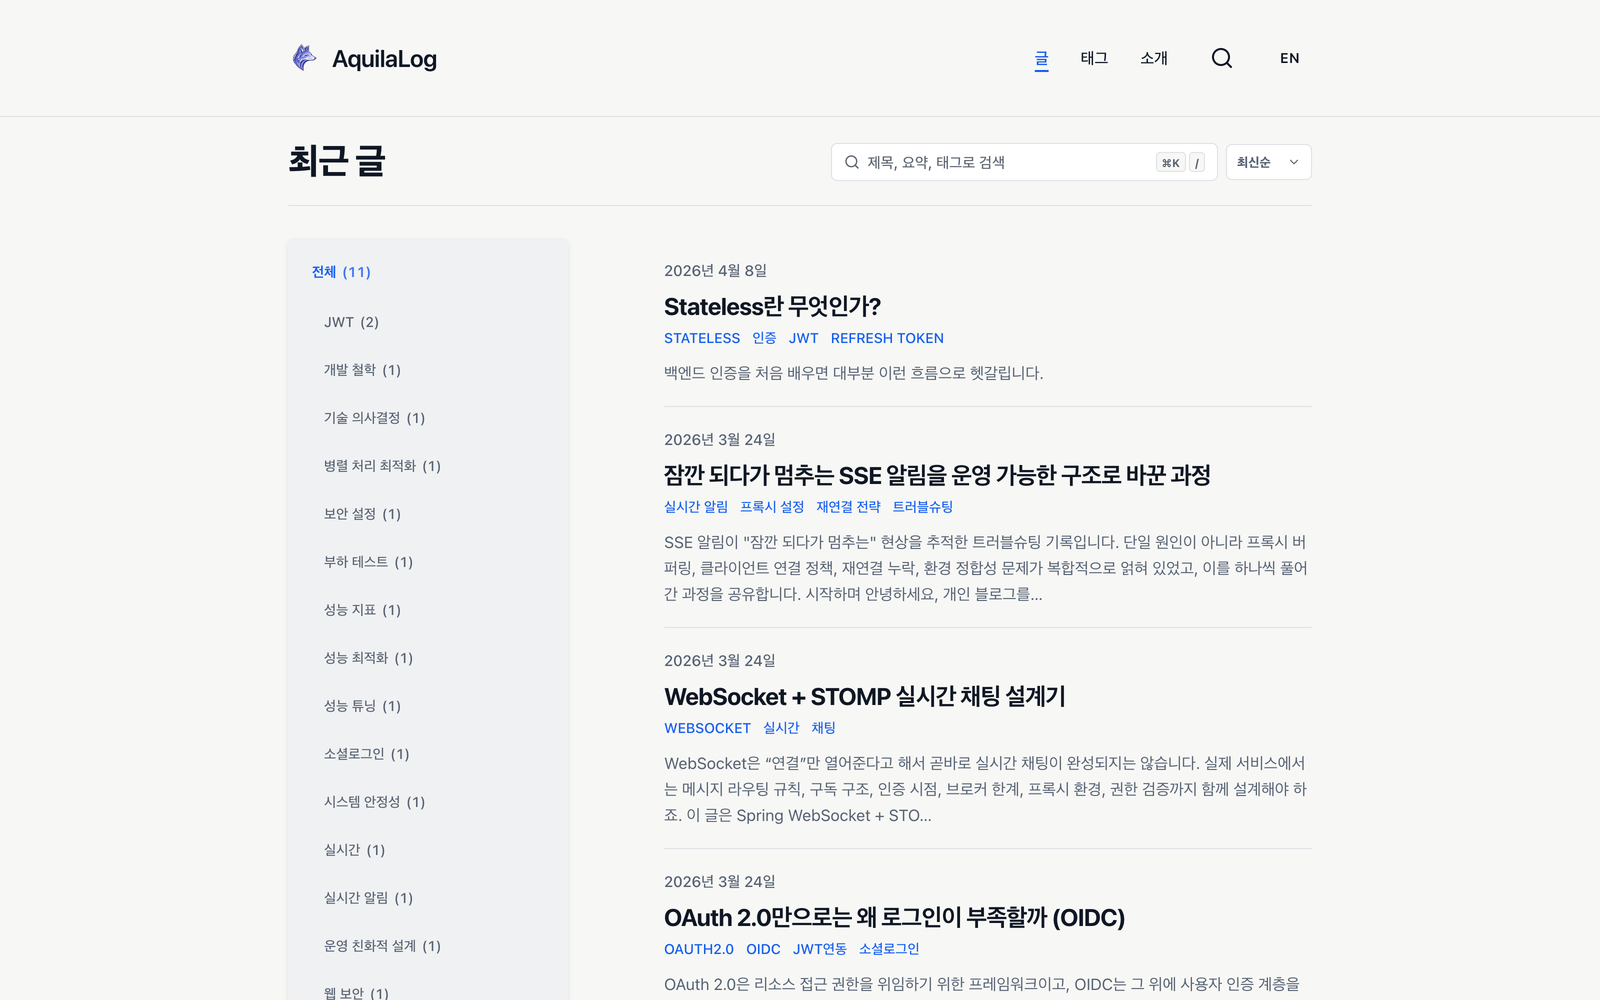
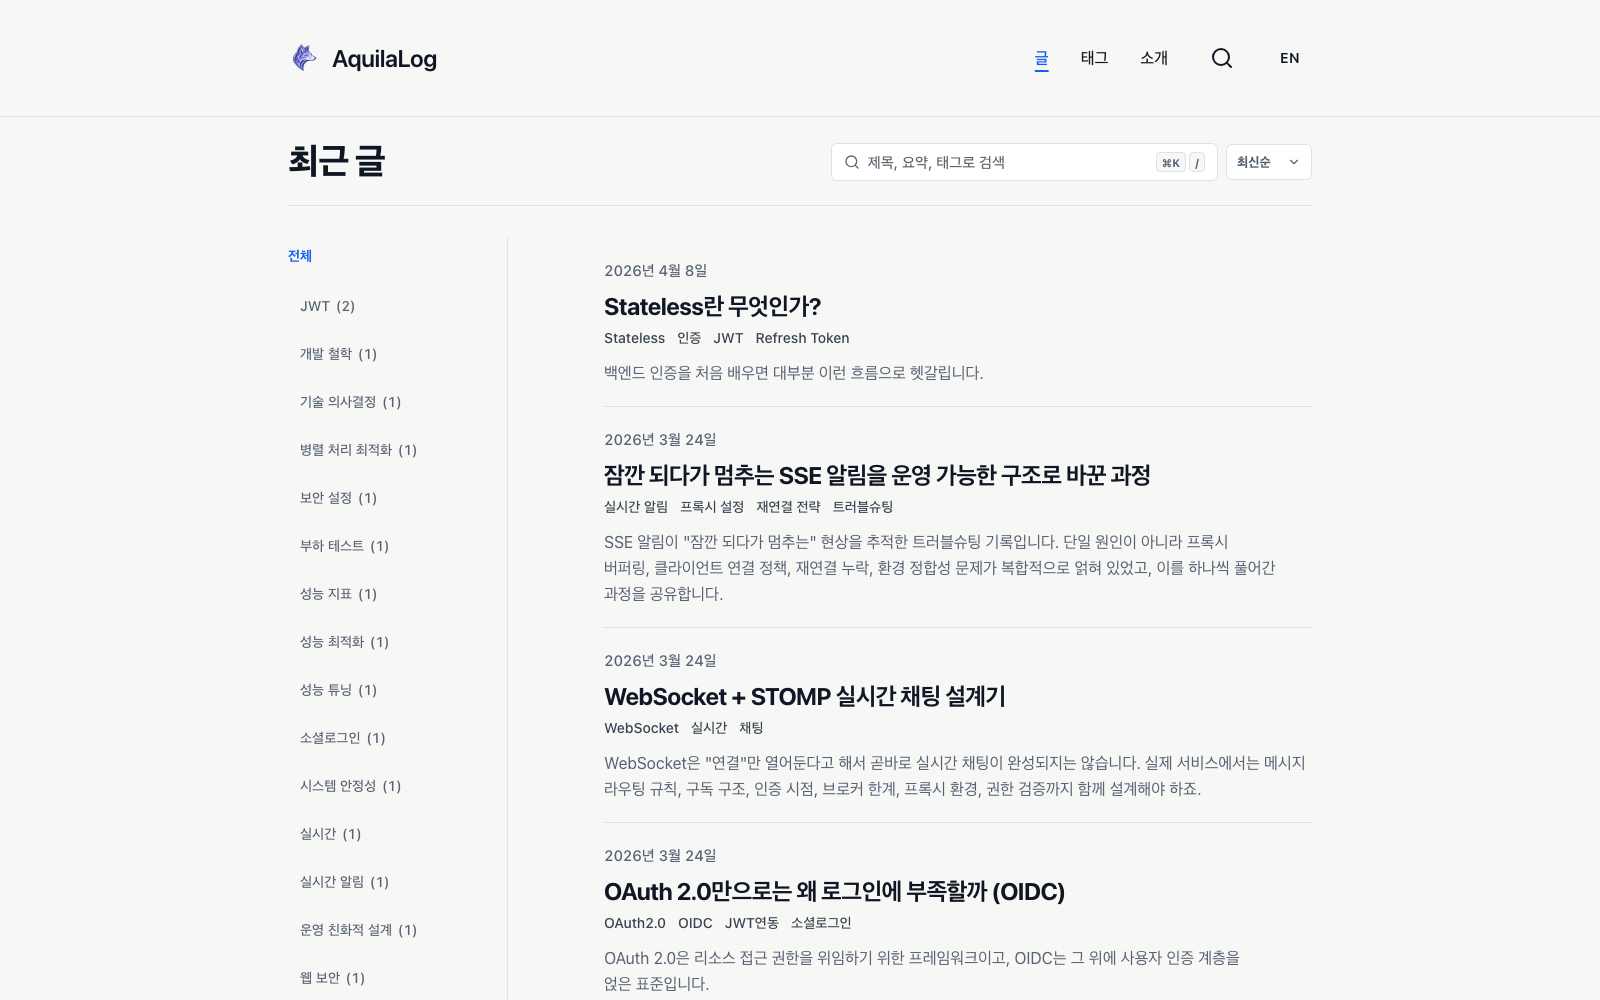
[Docs] 최신 홈·에디터 화면 스크린샷과 보기 모드 순서를 실제 UI에 맞게 갱신

diff --git a/README.md b/README.md
@@ -39,7 +39,7 @@
 ## 주요 기능
 
 - **기술 블로그와 아카이브** (`/`, `/posts/[id]`, `/about`) — 커서 기반 피드 탐색, 주제·태그 필터, 연재 시리즈 네비게이션, 목차, KaTeX 수식, Mermaid 다이어그램, 코드 블록, 커스텀 디렉티브(`:::callout`, `:::toggle`, `:::bookmark`, `:::embed`, `:::file`)를 에디터와 상세 페이지에서 동일하게 렌더링합니다.
-- **라이브 마크다운 에디터 스튜디오** (`/admin/editor/new`, `/admin/editor/[id]`) — CodeMirror 6 증분 라이브 프리뷰, 4가지 보기 전환(라이브·분할·원문·읽기)과 스크롤 동기화, `/` 슬래시 명령, 블록 드래그 핸들, 링크 버블 팝오버, 코드 언어 선택기·복사, 이미지 크기·정렬 제어, URL 언펄, `[[...]]` 위키링크 자동완성과 한/영 UI를 제공합니다.
+- **라이브 마크다운 에디터 스튜디오** (`/admin/editor/new`, `/admin/editor/[id]`) — CodeMirror 6 증분 라이브 프리뷰, 4가지 보기 전환(라이브·원문·분할·읽기)과 스크롤 동기화, `/` 슬래시 명령, 블록 드래그 핸들, 링크 버블 팝오버, 코드 언어 선택기·복사, 이미지 크기·정렬 제어, URL 언펄, `[[...]]` 위키링크 자동완성과 한/영 UI를 제공합니다.
 - **임시초안·발행 파이프라인** — 다중 서버 임시초안과 로컬 브라우저 초안 복구, 발행 준비도 점검, 리비전 차분(Diff) 비교, 예약 발행, 연재 시리즈 편성, 정본 URL 설정, 커버 이미지 초점 조정을 한 작업 공간에서 처리합니다.
 - **관리자·클라우드 워크스페이스** (`/admin`, `/admin/posts`, `/admin/profile`, `/admin/cloud`, `/admin/tools`) — 단일 관리자 이메일 코드 인증, 게시글 일괄 관리, 프로필 워크스페이스 편집·발행, 클라우드 멀티파트 이어올리기·서명된 공유·외부 재생 링크 관리, 운영 진단 도구를 지원합니다.
 - **제품·서비스 쇼케이스와 다운로드** (`/company`, `/download`, `/easysubway`) — Aquila Software 소개 화면과 EasyOffice·EasySubway·EasyConvert 안내, EasyOffice 최신 릴리스(`latest.json`, `SHA256SUMS.txt`) 연동을 단일 컨테이너 이미지로 서빙합니다.
@@ -53,7 +53,7 @@
 
 ### 마크다운 에디터 스튜디오
 
-라이브·분할·원문·읽기 4가지 보기를 오가며 글을 씁니다. 슬래시 명령, 블록 드래그, 수식·콜아웃, `[[위키링크]]`, 다중 임시초안, 리비전 Diff, 예약·시리즈 발행까지 한 화면에서 이어집니다.
+라이브·원문·분할·읽기 4가지 보기를 오가며 글을 씁니다. 슬래시 명령, 블록 드래그, 수식·콜아웃, `[[위키링크]]`, 다중 임시초안, 리비전 Diff, 예약·시리즈 발행까지 한 화면에서 이어집니다.
 
 </td>
 <td width="58%">
